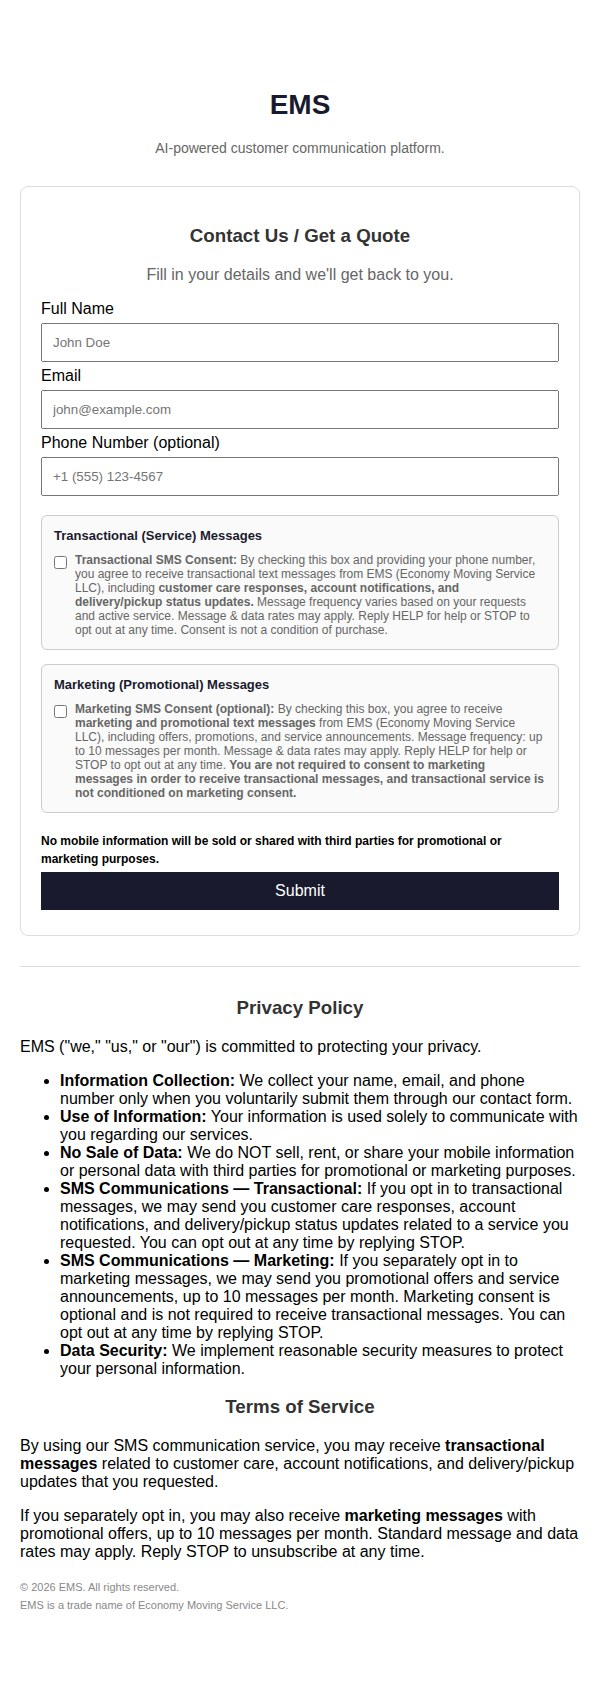
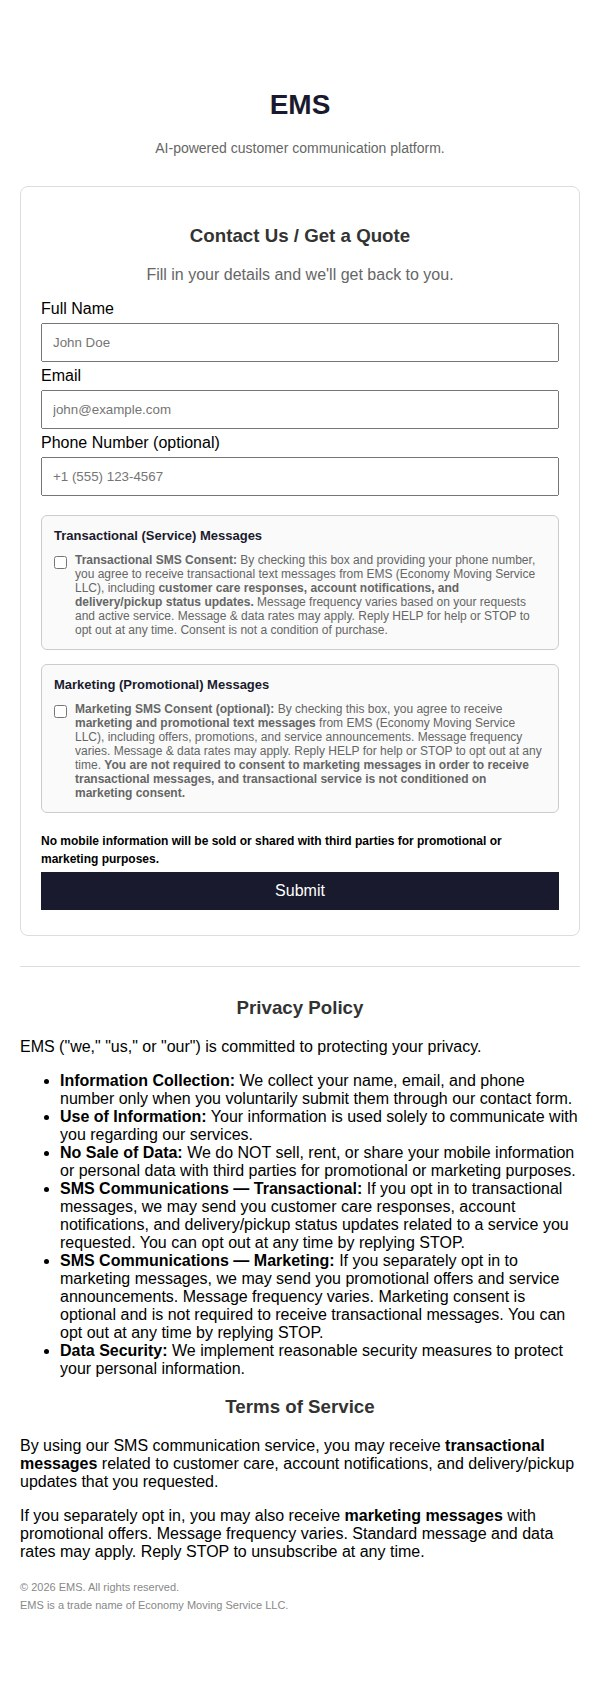
Remove message frequency numbers from marketing disclosure

diff --git a/index.html b/index.html
@@ -56,7 +56,7 @@ Reply HELP for help or STOP to opt out at any time. Consent is not a condition o
 <label for="sms-marketing" class="consent">
 <strong>Marketing SMS Consent (optional):</strong> By checking this box, you agree to receive
 <strong>marketing and promotional text messages</strong> from EMS (Economy Moving Service LLC), including
-offers, promotions, and service announcements. Message frequency: up to 10 messages per month.
+offers, promotions, and service announcements. Message frequency varies.
 Message &amp; data rates may apply. Reply HELP for help or STOP to opt out at any time.
 <strong>You are not required to consent to marketing messages in order to receive transactional messages,
 and transactional service is not conditioned on marketing consent.</strong>
@@ -77,12 +77,12 @@ and transactional service is not conditioned on marketing consent.</strong>
 <li><strong>Use of Information:</strong> Your information is used solely to communicate with you regarding our services.</li>
 <li><strong>No Sale of Data:</strong> We do NOT sell, rent, or share your mobile information or personal data with third parties for promotional or marketing purposes.</li>
 <li><strong>SMS Communications — Transactional:</strong> If you opt in to transactional messages, we may send you customer care responses, account notifications, and delivery/pickup status updates related to a service you requested. You can opt out at any time by replying STOP.</li>
-<li><strong>SMS Communications — Marketing:</strong> If you separately opt in to marketing messages, we may send you promotional offers and service announcements, up to 10 messages per month. Marketing consent is optional and is not required to receive transactional messages. You can opt out at any time by replying STOP.</li>
+<li><strong>SMS Communications — Marketing:</strong> If you separately opt in to marketing messages, we may send you promotional offers and service announcements. Message frequency varies. Marketing consent is optional and is not required to receive transactional messages. You can opt out at any time by replying STOP.</li>
 <li><strong>Data Security:</strong> We implement reasonable security measures to protect your personal information.</li>
 </ul>
 <h3>Terms of Service</h3>
 <p>By using our SMS communication service, you may receive <strong>transactional messages</strong> related to customer care, account notifications, and delivery/pickup updates that you requested.</p>
-<p>If you separately opt in, you may also receive <strong>marketing messages</strong> with promotional offers, up to 10 messages per month. Standard message and data rates may apply. Reply STOP to unsubscribe at any time.</p>
+<p>If you separately opt in, you may also receive <strong>marketing messages</strong> with promotional offers. Message frequency varies. Standard message and data rates may apply. Reply STOP to unsubscribe at any time.</p>
 <small>&copy; 2026 EMS. All rights reserved.<br>EMS is a trade name of Economy Moving Service LLC.</small>
 </body>
 </html>
